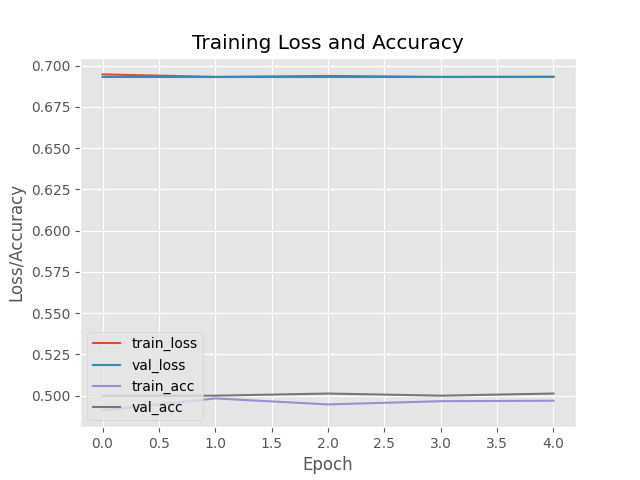
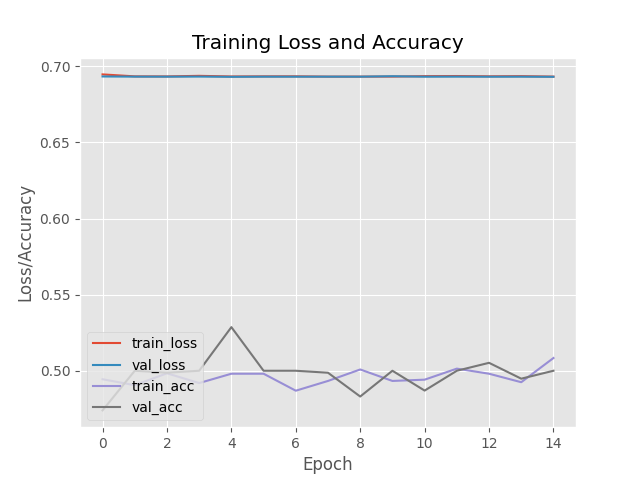
smaller explain updates

diff --git a/MS4/train_siamese.py b/MS4/train_siamese.py
@@ -10,13 +10,14 @@ from tensorflow.keras.layers import Dense
 from tensorflow.keras.layers import Input
 from tensorflow.keras.layers import Lambda
 from tensorflow.keras.callbacks import EarlyStopping
-from tensorflow.data import AUTOTUNE
-from tensorflow.data import Dataset
+# from tensorflow.data import AUTOTUNE
+# from tensorflow.data import Dataset
 from tensorflow.keras.datasets import mnist
-from tensorflow.data import Dataset
+from tensorflow.keras.utils import plot_model
 import numpy as np
 import logging
 import os
+import pandas as pd
 
 os.makedirs(os.path.dirname(configuration.LOG_PATH), exist_ok=True)
 
@@ -50,21 +51,41 @@ def do_mnist():
 def do_promis():
     logging.info("[INFO] loading promis dataset...")
     df = utils.read_csv()
-    df["image"] = df["path"].apply(utils.load_and_preprocess_image)
-    # Check encoding
-    # print(df['name'][0])
-    code_to_category = dict(enumerate(df['name'].astype('category').cat.categories))
-    df['name'] = df['name'].astype('category').cat.codes
-    # print(df['name'][0])
-    # print(df['name'].map(code_to_category)[0])
+    df_name_astype_category = df['name'].astype('category')
+    code_to_category = dict(enumerate(df_name_astype_category.cat.categories))
+    num_identities = len(df_name_astype_category.cat.categories)
+    df["identity"] = df_name_astype_category.cat.codes
+    df.sort_values(by='identity').to_csv('/tmp/promis_identity.csv', index=True)
+    df.to_csv('/tmp/promis_identity_us.csv')
+    df["image"] = df["path"].apply(utils.load_image)
 
     # pair is a list of image pairs
     # label is whether they are showing the same person or not
-    pair, label = utils.make_pairs(df['image'], df['name'])
-    print("Before slicing")
-    dataset = Dataset.from_tensor_slices(([pair[:, 0], pair[:, 1]], label))
-    print("After slicing")
-    print('Aufbau des Datensets: ', dataset.element_spec)
+
+    pair, label = utils.make_pairs(images=df['image'], identities=df['identity'], num_identities=num_identities)
+
+    # EXPLAIN PAIRS
+    # pair_expl, label_expl = utils.make_pairs(images=df['path'], identities=df['identity'],
+    #                                          num_identities=num_identities)
+    #
+    # df_explain = pd.DataFrame(
+    #     {'path1': pair_expl[:, 0], 'path2': pair_expl[:, 1], 'label': label_expl.flatten()})
+    # df_explain.to_csv('/tmp/promis_pair_expl.csv', index=True)
+
+
+    # pair = pair[:10]
+    # label = label[:10]
+    #
+    # # Assuming each element of pair is a tuple (image1, image2)
+    # image1_list = [p[0] for p in pair]
+    # image2_list = [p[1] for p in pair]
+    #
+    # # Assuming image1_list and image2_list are now lists of 3D NumPy arrays
+    # dataset = Dataset.from_tensor_slices(([image1_list, image2_list], label))
+    # print(dataset)
+    #
+    # print('Aufbau des Datensets: ', dataset.element_spec)
+
     dataset_size = len(df)
     ##
     # -- SPLIT DATASET INTO TRAIN, VAL AND TEST --
@@ -73,49 +94,53 @@ def do_promis():
     val_size = int(0.1 * dataset_size)
     test_size = dataset_size - train_size - val_size
 
-    train_dataset = dataset.take(train_size)
-    val_dataset = dataset.skip(train_size).take(val_size)
-    test_dataset = dataset.skip(train_size + val_size)
-
-    train_dataset = train_dataset.batch(configuration.BATCH_SIZE)
-    val_dataset = val_dataset.batch(configuration.BATCH_SIZE)
-    test_dataset = test_dataset.batch(configuration.BATCH_SIZE)
-
-    train_dataset = train_dataset.prefetch(buffer_size=AUTOTUNE)
-    val_dataset = val_dataset.prefetch(buffer_size=AUTOTUNE)
-    test_dataset = test_dataset.prefetch(buffer_size=AUTOTUNE)
-
-    # dataset_size = len(label)
-    # train_size = int(0.7 * dataset_size)
-    # val_size = int(0.15 * dataset_size)
-    # test_size = dataset_size - train_size - val_size
+    # train_dataset = dataset.take(train_size)
+    # val_dataset = dataset.skip(train_size).take(val_size)
+    # test_dataset = dataset.skip(train_size + val_size)
     #
-    # pair_train = pair[:train_size]
-    # pair_val = pair[train_size:train_size+val_size]
-    # pair_test = pair[train_size + val_size:]
+    # train_dataset = train_dataset.batch(configuration.BATCH_SIZE)
+    # val_dataset = val_dataset.batch(configuration.BATCH_SIZE)
+    # test_dataset = test_dataset.batch(configuration.BATCH_SIZE)
     #
-    # label_train = label[:train_size]
-    # label_val = label[train_size:train_size+val_size]
-    # label_test = label[train_size + val_size:]
+    # train_dataset = train_dataset.prefetch(buffer_size=AUTOTUNE)
+    # val_dataset = val_dataset.prefetch(buffer_size=AUTOTUNE)
+    # test_dataset = test_dataset.prefetch(buffer_size=AUTOTUNE)
 
-    # return (pair_train, label_train), (pair_val, label_val), (pair_test, label_test)
-    print("Created datasets")
-    return train_dataset, val_dataset, test_dataset
+    dataset_size = len(label)
+    train_size = int(0.7 * dataset_size)
+    val_size = int(0.15 * dataset_size)
+    test_size = dataset_size - train_size - val_size
+
+    pair_train = pair[:train_size]
+    pair_val = pair[train_size:train_size + val_size]
+    pair_test = pair[train_size + val_size:]
+
+    label_train = label[:train_size]
+    label_val = label[train_size:train_size + val_size]
+    label_test = label[train_size + val_size:]
+
+    return (pair_train, label_train), (pair_val, label_val), (pair_test, label_test)
+    # print("Created datasets")
+    # return train_dataset, val_dataset, test_dataset
 
 
-# (pair_train, label_train), (pair_val, label_val), (pair_test, val_test) = do_promis()
-train_dataset, val_dataset, test_dataset = do_promis()
+(pair_train, label_train), (pair_val, label_val), (pair_test, label_test) = do_promis()
+# train_dataset, val_dataset, test_dataset = do_promis()
 
 # configure siamese
 logging.info("Building siamese network...")
+
+# Our model takes two inputs
 imgA = Input(shape=configuration.IMG_SHAPE)
 imgB = Input(shape=configuration.IMG_SHAPE)
-
-# one instance for shared weights
+# takes a common core
 featureExtractor = build_siamese_model(configuration.IMG_SHAPE)
+# one instance for both paths for shared weights
 featsA = featureExtractor(imgA)
 featsB = featureExtractor(imgB)
-distance = Lambda(utils.euclidean_distance)([featsA, featsB])
+# calculates the Euclidean distance between those two
+distance = Lambda(utils.euclidean_distance, name='lambda_eucl_dist')([featsA, featsB])
+# and returns in [0,1] depending on whether it is the same person or not.
 outputs = Dense(1, activation="sigmoid")(distance)
 model = Model(inputs=[imgA, imgB], outputs=outputs)
 
@@ -124,20 +149,23 @@ logging.info("Compiling model...")
 model.compile(loss="binary_crossentropy", optimizer="adam",
               metrics=["accuracy"])
 model.summary()
+output_path = '/tmp/model_1.png'
+plot_model(model, to_file=output_path, show_shapes=True, show_layer_names=True)
+
 # callbacks
 early_stopping = EarlyStopping(
     monitor='val_loss',  # Monitors the validation loss
-    patience=3,  # Number of epochs with no improvement after which training will stop
+    patience=10,  # Number of epochs with no improvement after which training will stop
     restore_best_weights=True  # Restores the best model weights based on the monitored quantity
 )
 
 # train the model
 logging.info("Training model...")
 history = model.fit(
-    # [pair_train[:, 0], pair_train[:, 1]], label_train[:],
-    # validation_data=([pair_val[:, 0], pair_val[:, 1]], label_val[:]),
-    train_dataset,
-    val_dataset,
+    [pair_train[:, 0], pair_train[:, 1]], label_train[:],
+    validation_data=([pair_val[:, 0], pair_val[:, 1]], label_val[:]),
+    # train_dataset,
+    # validation_data=val_dataset,
     batch_size=configuration.BATCH_SIZE,
     epochs=configuration.EPOCHS,
     callbacks=[early_stopping])

diff --git a/MS4/utils.py b/MS4/utils.py
@@ -6,14 +6,12 @@ import configuration
 import cv2
 
 
-def load_and_preprocess_image(image_path):
+def load_image(image_path):
     """
     :param image_path: path to file
     :return: Image
     """
-    image = cv2.imread(image_path)  # , cv2.COLOR_BGR2RGB
-    image = image / 255.0  # scale [0-1]
-    image = np.expand_dims(image, axis=-1)
+    image = cv2.imread(image_path, cv2.COLOR_BGR2RGB)  # , cv2.COLOR_BGR2RGB
     return image
 
 
@@ -27,43 +25,37 @@ def read_csv():
     # df = pd.concat([df_face, df_no_face], axis=0, ignore_index=True)
 
     # shuffle dataframe
-    train_df = df.sample(frac=1)
-    return train_df
+    # train_df = df.sample(frac=1)  # TODO: Inlude again
+    return df  # train_df
 
 
-def make_pairs(images, labels):
-    # initialize two empty lists to hold the (image, image) pairs and
-    # labels to indicate if a pair is positive or negative
+def make_pairs(images, identities, num_identities, stop=False):
     pair_images = []
     pair_labels = []
-    # calculate the total number of classes present in the dataset
-    # and then build a list of indexes for each class label that
-    # provides the indexes for all examples with a given label
-    num_classes = len(np.unique(labels))
-    idx = [np.where(labels == i)[0] for i in range(0, num_classes)]
+
+    print(f"Number of unique identities {num_identities}")
+
+    # f(identity) = list of all indexes of said identity
+    idx = [np.where(identities == i)[0] for i in range(0, num_identities)]
+
     # loop over all images
-    for idxA in range(len(images)):
-        # grab the current image and label belonging to the current
-        # iteration
-        current_image = images[idxA]
-        label = labels[idxA]
-        # randomly pick an image that belongs to the *same* class
-        # label
-        idx_b = np.random.choice(idx[label])
-        pos_image = images[idx_b]
-        # prepare a positive pair and update the images and labels
-        # lists, respectively
+    for index_a in range(len(images)):
+        # current
+        current_image = images[index_a]
+        identity = identities[index_a]
+        # random image same identity
+        index_b = np.random.choice(idx[identity])
+        pos_image = images[index_b]
         pair_images.append([current_image, pos_image])
         pair_labels.append([1])
-        # grab the indices for each of the class labels *not* equal to
-        # the current label and randomly pick an image corresponding
-        # to a label *not* equal to the current label
-        neg_idx = np.where(labels != label)[0]
+
+        # random image different identity
+        neg_idx = np.where(identities != identity)[0]
         neg_image = images[np.random.choice(neg_idx)]
-        # prepare a negative pair of images and update our lists
         pair_images.append([current_image, neg_image])
         pair_labels.append([0])
-    # return a 2-tuple of our image pairs and labels
+
+    # return [(image, image), ...], labels
     return np.array(pair_images), np.array(pair_labels)
 
 

diff --git a/MS4/siamese.py b/MS4/siamese.py
@@ -12,7 +12,6 @@ from tensorflow.keras.applications.mobilenet_v2 import preprocess_input
 
 def build_siamese_model(input_shape, embedding_dim=48):
     # specify the inputs for the feature extractor network
-    print(input_shape)
     inputs = Input(shape=input_shape)
     base_model = MobileNetV2(
         weights='imagenet',  # Load weights pre-trained on ImageNet.
@@ -24,33 +23,13 @@ def build_siamese_model(input_shape, embedding_dim=48):
         RandomRotation(0.2),
     ])
 
-    inputs = Input((200, 200, 3))
-    x = Conv2D(96, (11, 11), padding="same", activation="relu")(inputs)
-    x = MaxPooling2D(pool_size=(2, 2))(x)
-    x = Dropout(0.3)(x)
-
-    x = Conv2D(256, (5, 5), padding="same", activation="relu")(x)
-    x = MaxPooling2D(pool_size=(2, 2))(x)
-    x = Dropout(0.3)(x)
-
-    x = Conv2D(384, (3, 3), padding="same", activation="relu")(x)
-    x = MaxPooling2D(pool_size=(2, 2))(x)
-    x = Dropout(0.3)(x)
-
-    pooled_output = GlobalAveragePooling2D()(x)
-    pooled_output = Dense(1024)(pooled_output)
-    outputs = Dense(128)(pooled_output)
-
-    model = Model(inputs, outputs)
-    return model
-
     # first
-    # x = data_augmentation(inputs)
-    # x = preprocess_input(x)
-    # x = base_model(x)
-    # x = GlobalAveragePooling2D()(x)
-    # x = Dense(1280, activation='relu')(x)
-    # x = Dropout(0.5)(x)
+    x = data_augmentation(inputs)
+    x = preprocess_input(x)
+    x = base_model(x)
+    x = GlobalAveragePooling2D()(x)
+    x = Dense(1280, activation='relu')(x)
+    x = Dropout(0.5)(x)
 
     # second
     # x = base_model(x)
@@ -70,7 +49,7 @@ def build_siamese_model(input_shape, embedding_dim=48):
 
     # pooled_output = GlobalAveragePooling2D()(x)
     outputs = Dense(embedding_dim)(x)
-    model = Model(inputs, outputs)
+    model = Model(inputs, outputs, name="siam_core")
 
     return model
 

diff --git a/MS4/configuration.py b/MS4/configuration.py
@@ -3,7 +3,7 @@
 
 import os
 IMG_SHAPE = (200, 200, 3)
-BATCH_SIZE = 64
+BATCH_SIZE = 32
 EPOCHS = 100
 
 FOLDER = "MS4"
